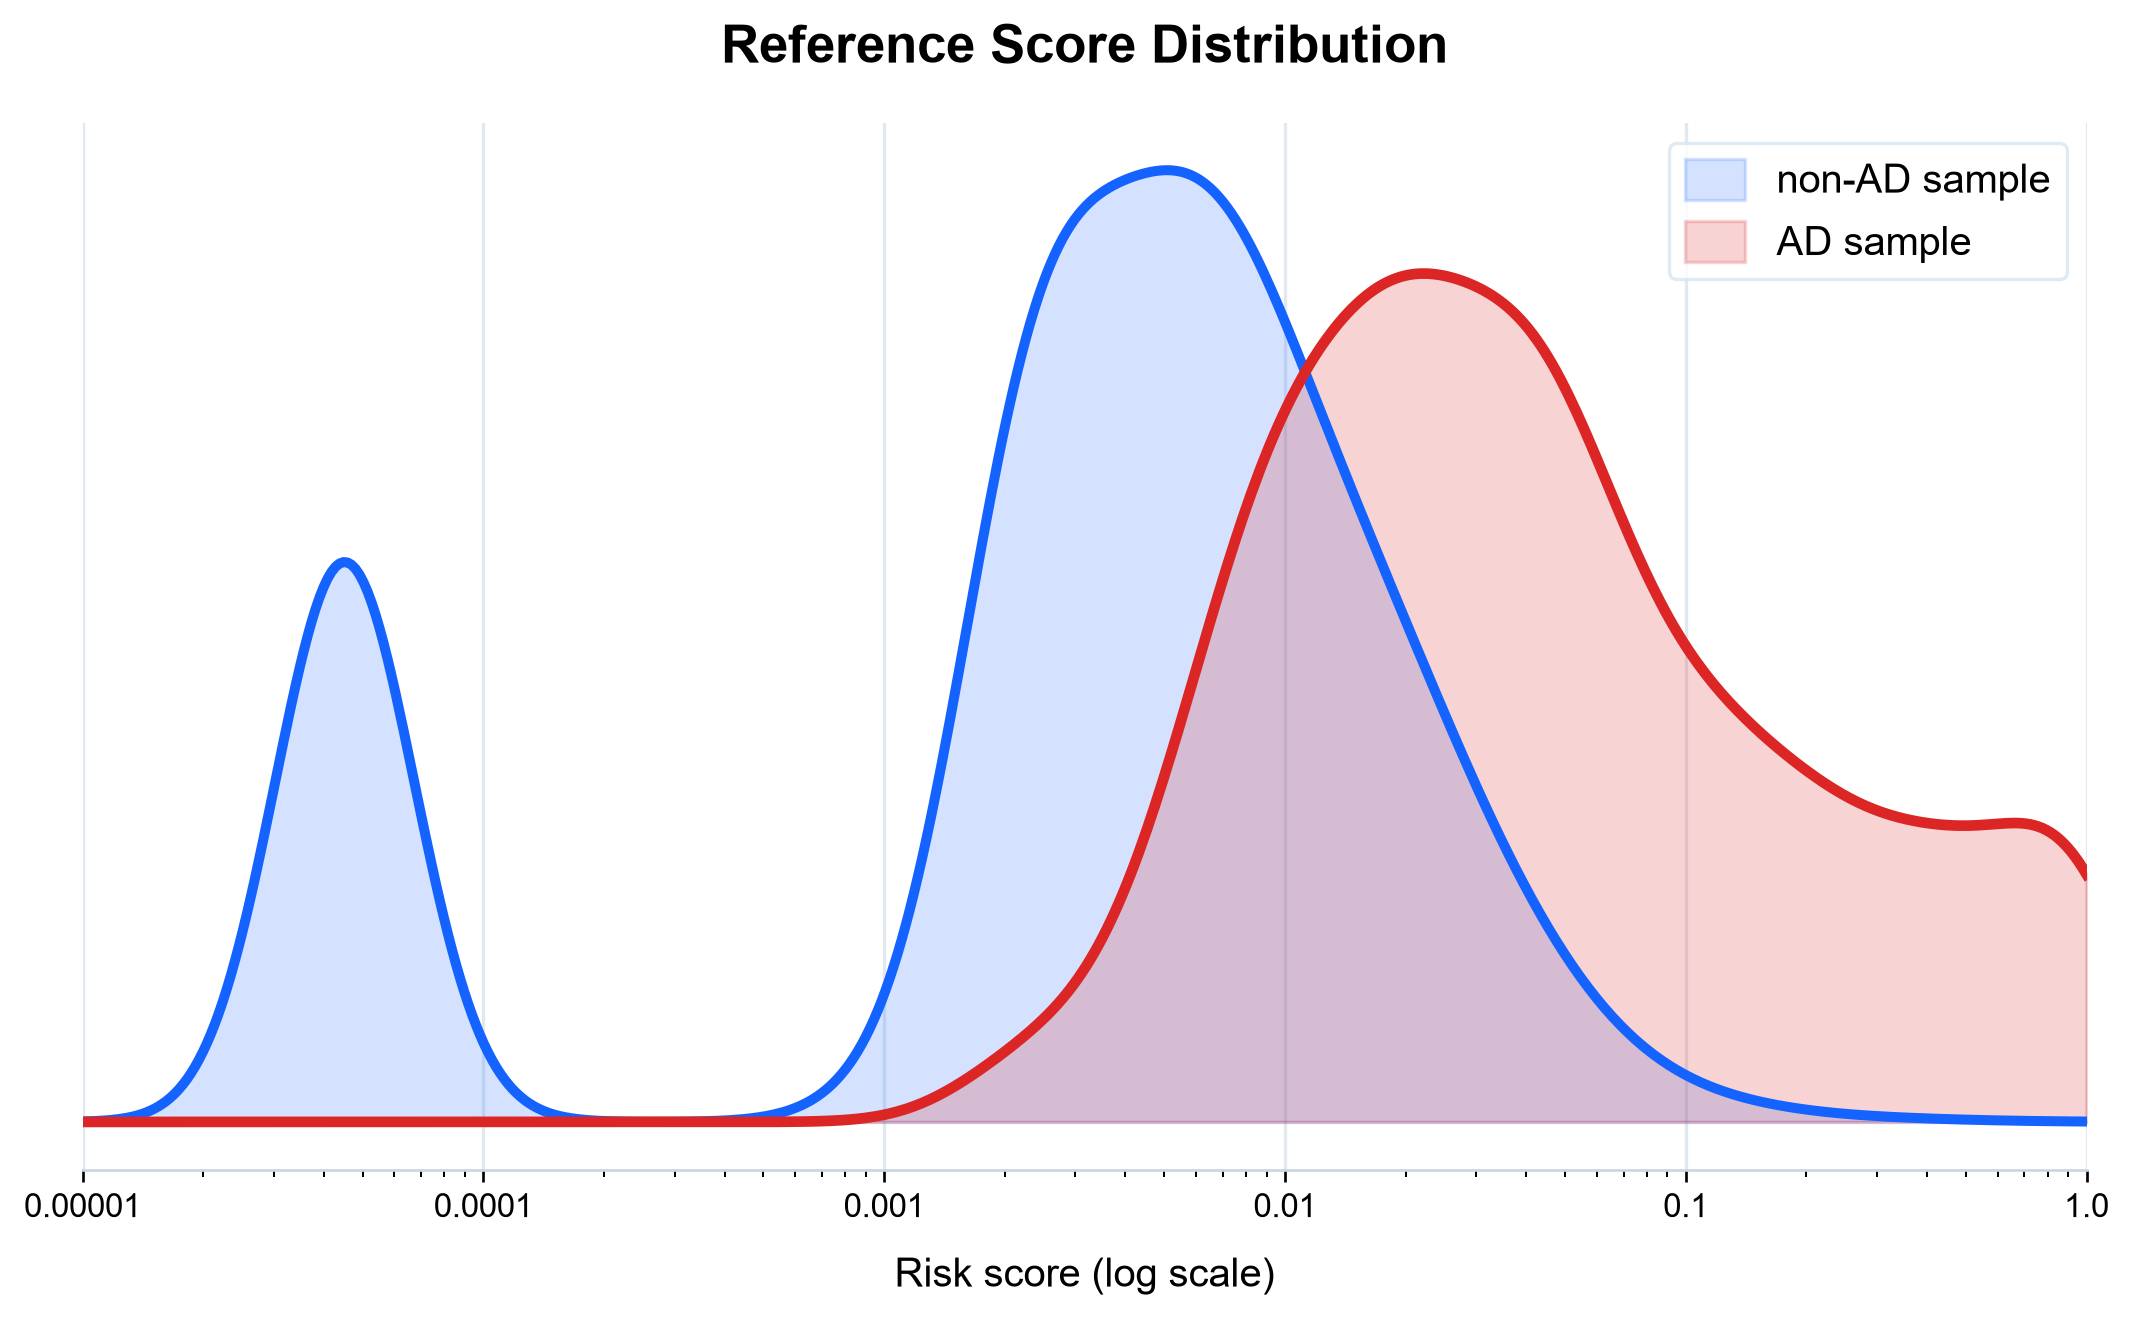
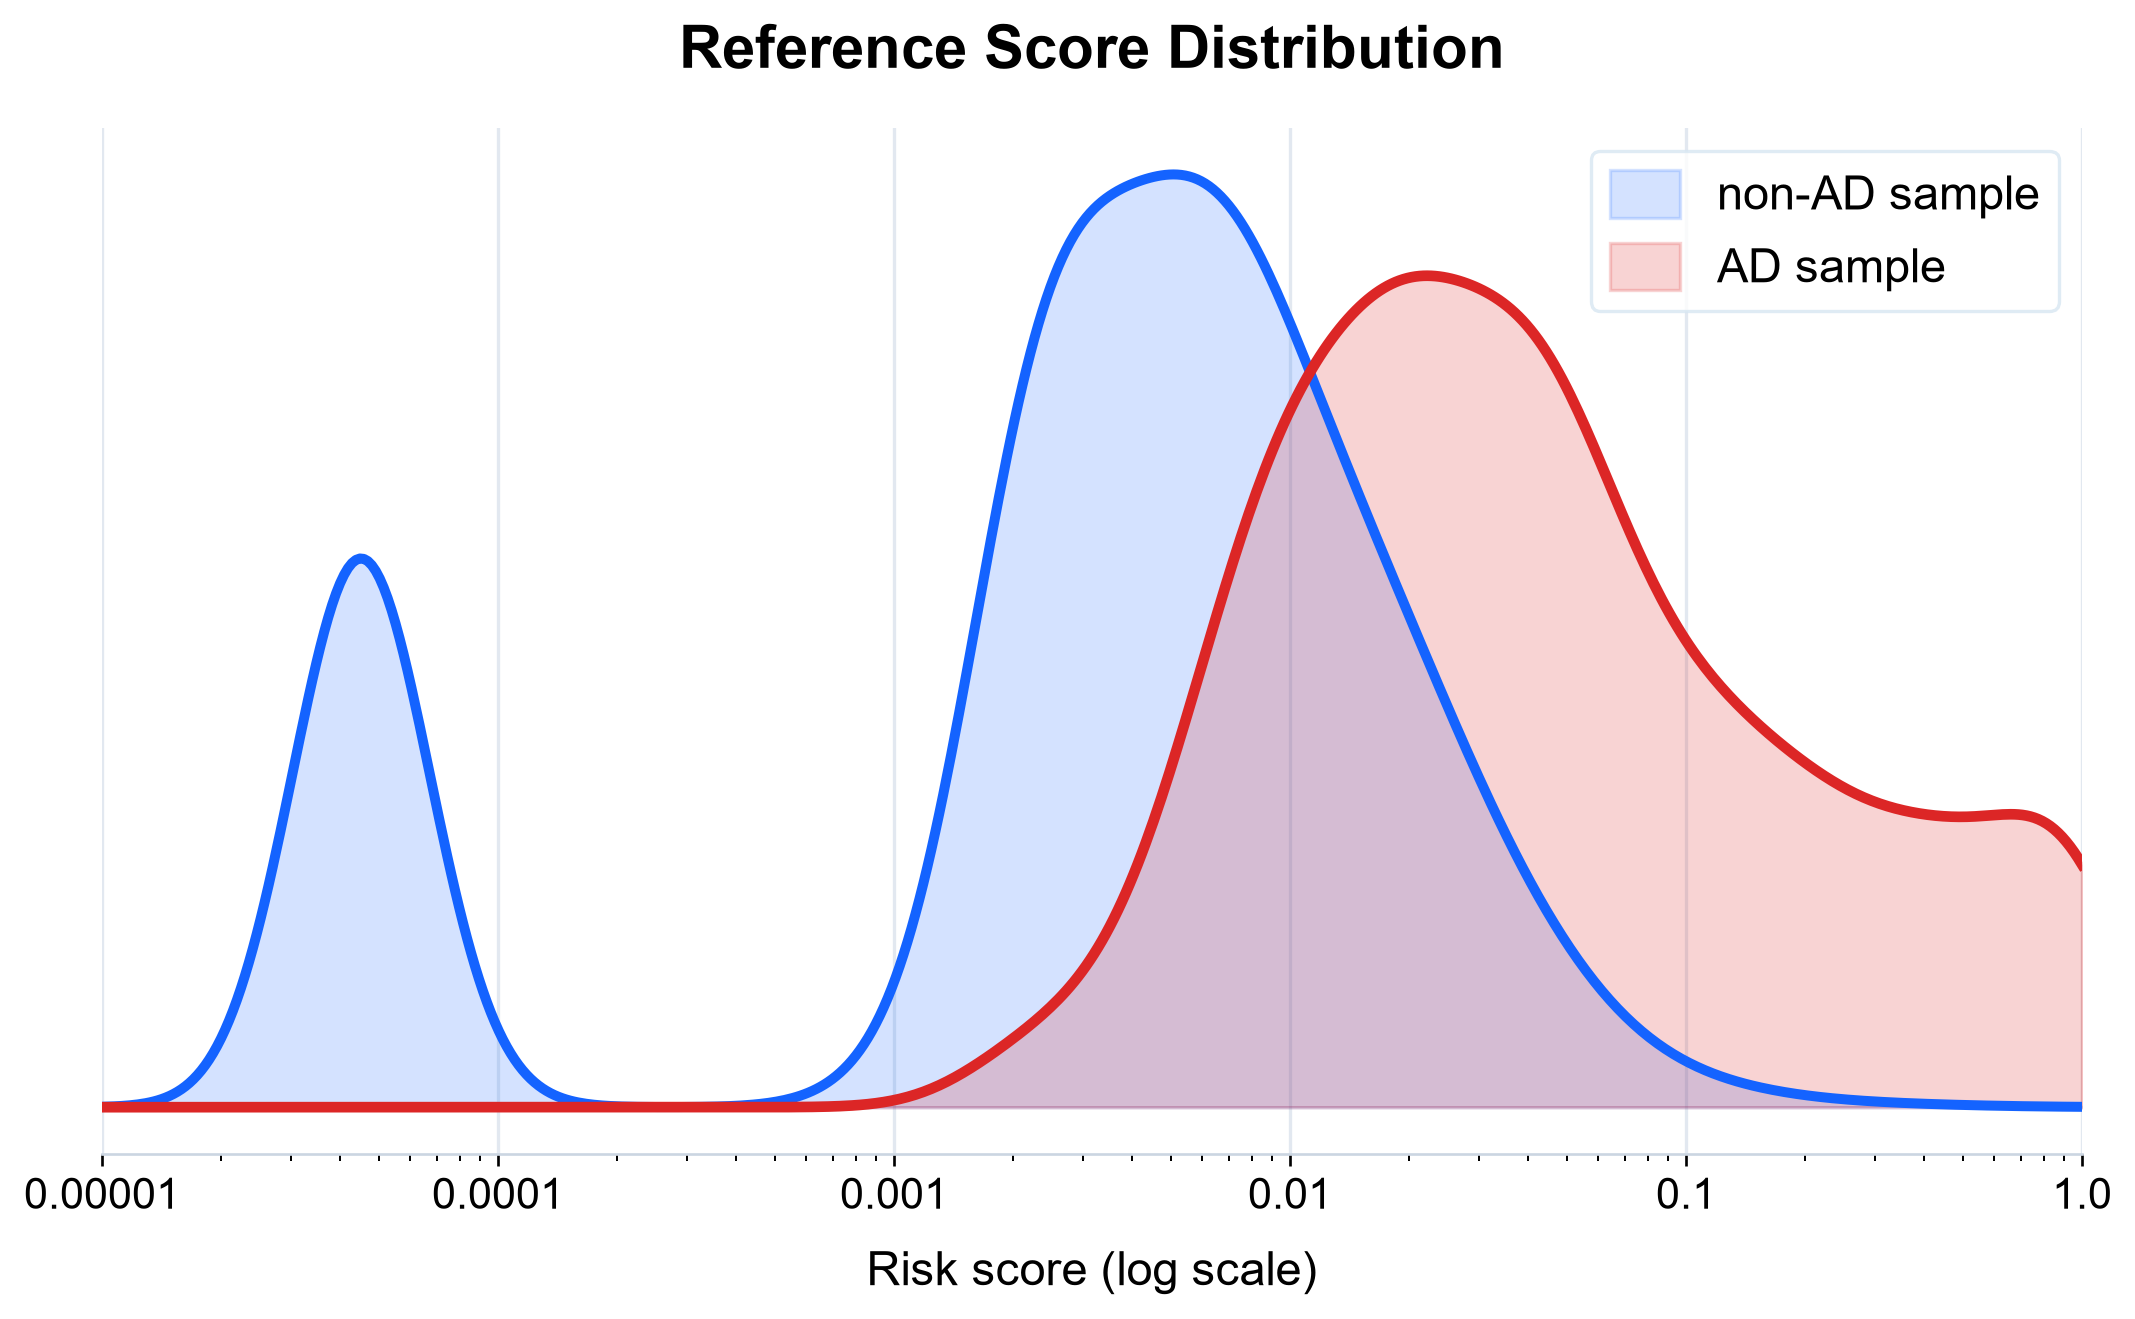
increase font size of risk score curve, update business page layout and text, change assessment button text

diff --git a/docs/business.html b/docs/business.html
@@ -88,6 +88,13 @@
       max-width: 780px;
     }
 
+    .challenge-opportunity {
+      display: grid;
+      grid-template-columns: repeat(2, minmax(0, 1fr));
+      gap: 22px;
+      align-items: stretch;
+    }
+
     .highlight-card,
     .value-card {
       background: #ffffff;
@@ -198,7 +205,8 @@
 
     @media (max-width: 900px) {
       .impact-stats,
-      .market-grid {
+      .market-grid,
+      .challenge-opportunity {
         grid-template-columns: 1fr;
       }
 
@@ -266,21 +274,24 @@
   </section>
 
   <section class="section soft">
-    <div class="split">
-      <div>
-        <h2>The problem</h2>
-        <p>
-          Alzheimer's disease is often recognized after years of subtle cognitive change. Formal evaluation is clinically important, but it can involve appointments, cognitive testing, laboratory work, imaging, or specialist referral.
-        </p>
-        <p>
-          For many families, clinics, and senior-care settings, the first step is the hardest: knowing when a concern deserves follow-up.
-        </p>
+    <div class="challenge-opportunity">
+      <div class="highlight-card">
+        <h3>The Challenge</h3>
+          <p>
+              Alzheimer's disease is often recognized only after subtle cognitive changes have progressed.
+          </p>
+          <p>
+              Families, clinics, and senior-care teams need a simpler first step to decide when professional follow-up
+              may be needed.
+          </p>
       </div>
 
       <div class="highlight-card">
         <h3>The opportunity</h3>
         <p>
-          A low-cost digital reference tool can support earlier conversations, help prioritize limited clinical resources, and guide people toward appropriate professional evaluation without claiming to diagnose disease.
+            A low-cost digital reference tool can support earlier conversations,
+            help prioritize limited clinical resources,
+            and guide people toward appropriate professional evaluation.
         </p>
       </div>
     </div>

diff --git a/docs/assessment.html b/docs/assessment.html
@@ -908,7 +908,7 @@
     scoreMarker.classList.remove("show");
 
     submitButton.disabled = false;
-    submitButton.textContent = "Calculate Reference Score";
+    submitButton.textContent = "Calculate Your Score";
 
     closeModal();
 
